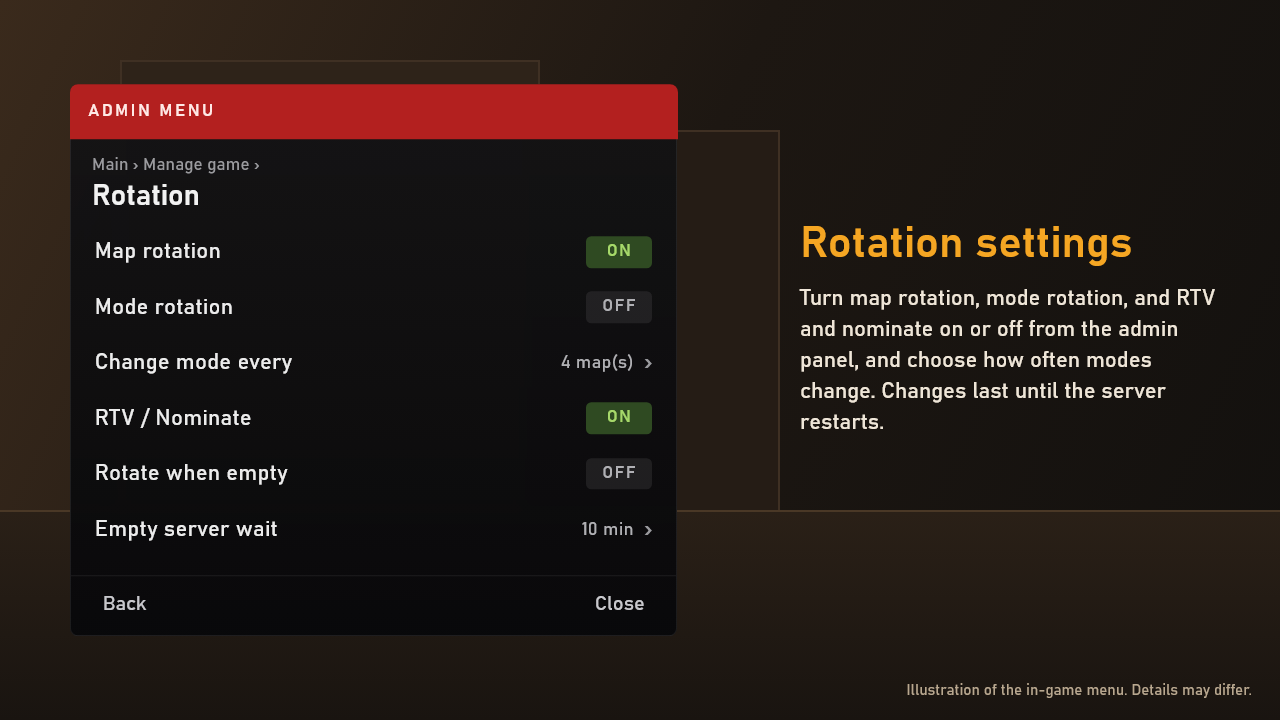
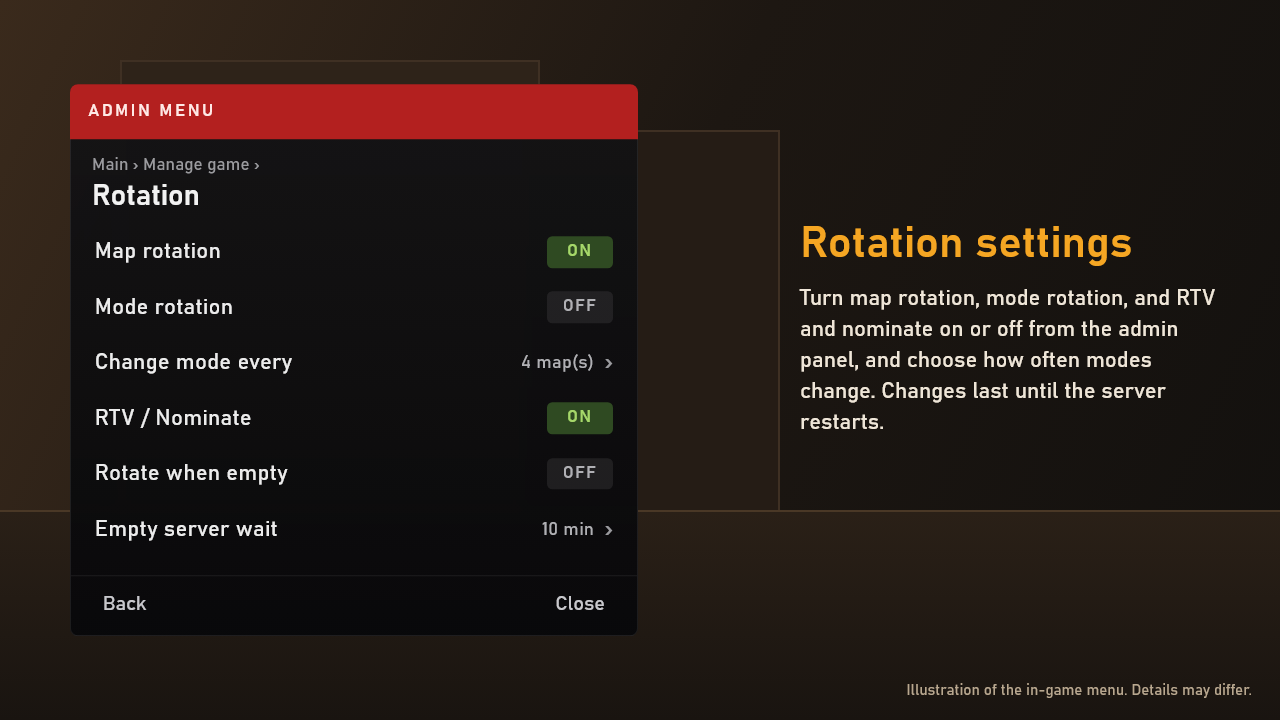
chore: narrow the admin panel to 430px, still wider than the menus and vote panel

diff --git a/addon/admin_theme.css b/addon/admin_theme.css
@@ -3,6 +3,7 @@
    panel. The red header and accents stay, so admin tools still stand apart. ==== */
 .sa-root
 {
+	width: 430px; /* PMM_SimpleAdmin's 460px, a little narrower: still wider than the menus (400px) and the vote panel (420px) */
 	background-color: gradient( linear, 0% 0%, 0% 100%, from( rgba(18, 18, 20, 0.92) ), color-stop( 0.1, rgba(18, 18, 20, 0.92) ), to( rgba(8, 8, 10, 0.95) ) ); /* The menus' gradient, starting below the red header, which covers about the top tenth */
 	border: 1px solid #ffffff14; /* The vote panel's outline. The red header covers it, below. */
 	overflow: noclip noclip; /* So the header can reach over the outline. Nothing else in the panel goes past its edge. */
@@ -35,11 +36,11 @@
 	background-color: #ffffff05;
 }
 
-/* The red header reaches over the outline at the top and sides, so there's no light line around it. The panel is always 460px
-   wide, so the header is too, starting 1px left of it. Its top corners are rounded like the panel's, which no longer clips them. */
+/* The red header reaches over the outline at the top and sides, so there's no light line around it. The panel is 430px wide
+   (set above), so the header is too, starting 1px left of it. Its top corners are rounded like the panel's, which no longer clips them. */
 .sa-head
 {
-	width: 460px;
+	width: 430px;
 	margin: -1px 0px 0px -1px;
 	border-radius: 6px 6px 0px 0px;
 }

diff --git a/addon/mockups/scenes.html b/addon/mockups/scenes.html
@@ -58,7 +58,7 @@ html,body{width:1280px;height:720px;overflow:hidden;background:#12100e;font-fami
 .mv .vf{display:flex;align-items:center;margin-top:9px;font-size:12px;color:#9a9a9e;white-space:nowrap}.mv .vf .vk{width:18px;height:18px;line-height:18px;text-align:center;font-size:11px;background:#f2eeee;color:#160a0b;border-radius:3px;font-weight:600}.mv .vf .vo{margin:0 3px}.mv .vf .vn{margin:0 10px 0 4px}.mv .vf .vc{margin-left:auto}
 .mv .c{width:24px;text-align:right;font-size:17px;font-weight:600;color:#e3e7f0;flex:none}
 
-.sa{width:460px;background:linear-gradient(180deg,rgba(18,18,20,.92),rgba(18,18,20,.92) 10%,rgba(8,8,10,.95));border:1px solid #ffffff14;border-radius:6px;overflow:visible;backdrop-filter:blur(4px)}
+.sa{width:430px;background:linear-gradient(180deg,rgba(18,18,20,.92),rgba(18,18,20,.92) 10%,rgba(8,8,10,.95));border:1px solid #ffffff14;border-radius:6px;overflow:visible;backdrop-filter:blur(4px)}
 .sa .hd{margin:-1px -1px 0;border-radius:6px 6px 0 0;display:flex;align-items:center;height:42px;padding:0 14px;background:#b3201f}
 .sa .brand{flex:1;font-size:13px;letter-spacing:1.8px;font-weight:600;color:#ffe9e6}.sa .cnt{font-size:13px;color:#ffd7d2}
 .sa .tl{padding:12px 16px 8px}.sa .cr{font-size:13px;color:#9a9a9e}.sa .tt{font-size:22px;font-weight:600;color:#f2f2f2;margin-top:2px}.sa .su{font-size:13px;color:#b0b0b4;margin-top:3px}
